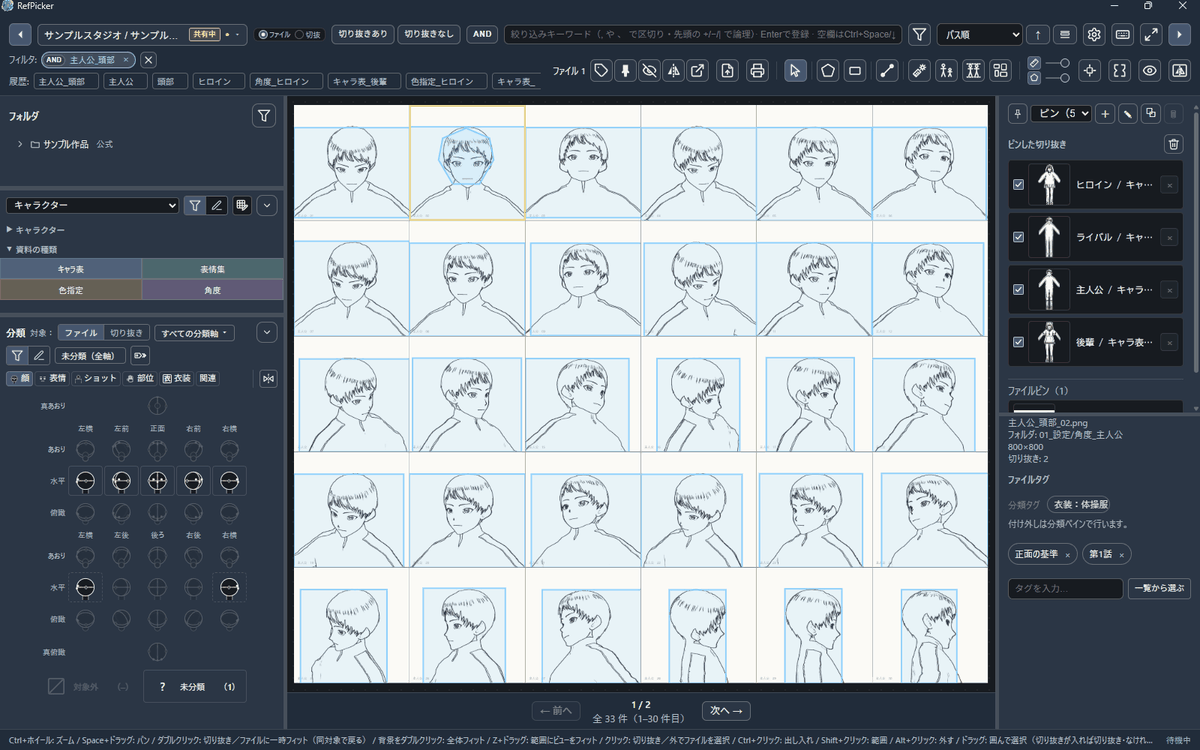
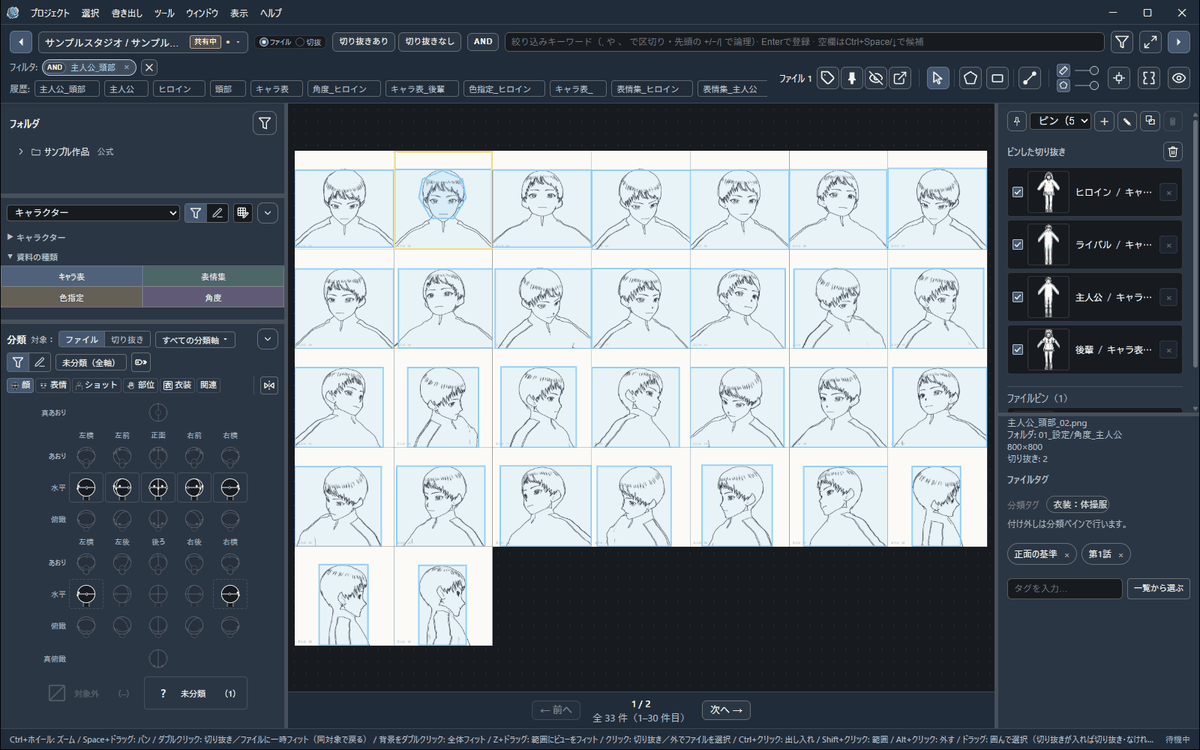
docs: 0.7.0 の公開文書と図（タイトルバーのメニュー・ファイルを書き出す）
record-for-ai の台帳 2026-11-28-v070 で直した out/crossrefpicker を反映した（ユーザー検収 OK）。ツールバーの手順をメニューとキーへ、USER_GUIDE に 5.2「ファイルを書き出す」、CHANGELOG に 0.7.0 の節、図は 0.7.0 のリリース版で撮り直し（新しく 200・210）。push は 0.7.0 の Release の公開と合わせる。

diff --git a/landing/index.html b/landing/index.html
@@ -410,7 +410,7 @@
         <ul>
           <li>整備した資料・切り抜き・タグを<b>「共有を始める…」で配布</b>（共有フォルダ / NAS / クラウド同期フォルダ）。<b>データだけ共有</b>（ファイルは元の場所のまま）か<b>ファイルも共有</b>かを選び、範囲を指定して<b>複数の共有先</b>へ同時に配れる</li>
           <li>反映する前に<b>「未反映の変更」で差分確認</b>。何が変わるかを把握してから配れる</li>
-          <li>受け取る人は<b>「更新」を押すだけ</b>で取り込み。公式データは共有元の最新に揃い、<b>手元で足したタグや個人ルートは残る</b>（同じ分類の軸に共有元が別の値を付けたときは、共有元の値になる）</li>
+          <li>受け取る人は<b>「更新」を押すだけ</b>で取り込み。公式データは共有元の最新に揃い、<b>手元で足したタグや個人ルートは残る</b>（同じ分類軸に共有元が別の分類を付けたときは、共有元の分類になる）</li>
           <li>公式データの形状・タグは受け取った側から変更不可。<b>資料の正が守られる</b></li>
         </ul>
       </div>
@@ -488,7 +488,7 @@
         </p>
         <div class="steps">
           <div class="step"><span class="n"></span><div class="t"><b>公式と個人をはっきり分離</b>配布される公式資料と、各自の参考資料・追加タグは別管理。更新しても個人のメモは消えません。共有が終わると、配られた画像の複製と公式のデータは受け取った人の手元から消えます。公式の切り抜きや画像に足したタグも一緒に消え、個人ルートとその上の作業は残ります。</div></div>
-          <div class="step"><span class="n"></span><div class="t"><b>公式は最新に、手元の追加は残す</b>新しいバージョンはバッジで知らせ、「更新」を押すと取り込みます。共有元のデータは最新に揃い、手元で足したタグや個人ルートは残ります（同じ分類の軸に共有元が別の値を付けたときは、共有元の値になります）。</div></div>
+          <div class="step"><span class="n"></span><div class="t"><b>公式は最新に、手元の追加は残す</b>新しいバージョンはバッジで知らせ、「更新」を押すと取り込みます。共有元のデータは最新に揃い、手元で足したタグや個人ルートは残ります（同じ分類軸に共有元が別の分類を付けたときは、共有元の分類になります）。</div></div>
           <div class="step"><span class="n"></span><div class="t"><b>複数のプロジェクトも見逃さない</b>開いていないプロジェクトの更新もバックグラウンドで検知し、更新バッジで知らせます。</div></div>
         </div>
       </div>
@@ -596,7 +596,7 @@
       </details>
       <details>
         <summary>配った資料を、受け取った人が壊してしまうことは？</summary>
-        <div class="a">できない設計です。公式資料の切り抜き形状や、印が「公式」のタグは、受け取った人の側から変更・削除できません。受け取った人ができるのは、タグを足す・自分の切り抜きを作る・個人ルートを追加する、といった手元での追加だけです。更新しても、手元で足したタグや個人ルートは残ります（同じ分類の軸に共有元が別の値を付けたときは、共有元の値になります）。共有が終わると、配られた画像の複製と公式のデータは手元から消え、公式の切り抜きや画像に足したタグも一緒に消えます。なお、社内で共同編集者として受け取った人は、公式のデータも編集できます。</div>
+        <div class="a">できない設計です。公式資料の切り抜き形状や、印が「公式」のタグは、受け取った人の側から変更・削除できません。受け取った人ができるのは、タグを足す・自分の切り抜きを作る・個人ルートを追加する、といった手元での追加だけです。更新しても、手元で足したタグや個人ルートは残ります（同じ分類軸に共有元が別の分類を付けたときは、共有元の分類になります）。共有が終わると、配られた画像の複製と公式のデータは手元から消え、公式の切り抜きや画像に足したタグも一緒に消えます。なお、社内で共同編集者として受け取った人は、公式のデータも編集できます。</div>
       </details>
       <details>
         <summary>導入にサーバーや管理者は必要ですか？</summary>
@@ -620,7 +620,7 @@
         <ul>
           <li>フォルダ登録による<b>索引化</b>と、<b>絞り込みは全部無料</b>——<b>自分の言葉で打ったタグでも、フォルダ名やファイル名でも引けます</b></li>
           <li><b>切り抜きは全ツール</b>（矩形・多角形・自動切り抜き）</li>
-          <li><b>自由タグ</b>（自分の言葉で打つタグ）の付与・削除。ファイルそのものに付ける<b>ファイルタグ</b>も。<b>ひとりで使うなら、ここまでで「探して・切って・並べる」が完結します</b>／クリップボードとフォルダへの書き出し／<b>印刷用書き出し</b>（用紙に並べて PDF／PNG に）</li>
+          <li><b>自由タグ</b>（自分の言葉で打つタグ）の付与・削除。ファイルそのものに付ける<b>ファイルタグ</b>も。<b>ひとりで使うなら、ここまでで「探して・切って・並べる」が完結します</b>／クリップボードとフォルダへの書き出し／<b>印刷用書き出し</b>（用紙に並べて PDF／PNG に）／<b>ファイルを書き出す</b>（元のフォルダ構成のまま）</li>
           <li><b>フィルタボード 1 枚</b>（よく使う絞り込み条件の文字列を並べて置けるテーブル）</li>
           <li><b>自分で作るプロジェクト 1 件</b>＋<b>受け取りは無制限</b>（配られたプロジェクトは 1 件に数えません）</li>
           <li><b>受け取った資料の上での分類タグの付与・削除</b>（共有元から届いたファイルに限ります）</li>

diff --git a/SYNC_GUIDE.md b/SYNC_GUIDE.md
@@ -5,7 +5,7 @@
 共有先は、**渡し方**（データだけ共有／ファイルも共有）と **範囲**（全ての範囲／フィルタで範囲を指定）の2つを選んで作ります（§0）。
 
 - 対象 OS: Windows
-- 共有の操作は、設定ウィンドウの **「プロジェクト」** タブ（「共有」の枠と、「受け取る」「別の PC へ移す」の段）から行います。**「選んで書き出す…」** だけは、メイン画面のツールバーのアイコンのボタンです（§6.1）。
+- 共有の操作は、設定ウィンドウの **「プロジェクト」** タブ（「共有」の枠と、「受け取る」「別の PC へ移す」の段）から行います。**「選んで書き出す…」** だけは、メイン画面の **書き出し** メニューにあります（§6.1）。
 - 関連: [ユーザーガイド](USER_GUIDE.md)（画面全体の操作）
 
 > **ライセンスについて**
@@ -190,7 +190,7 @@ flowchart TB
 
 ### 2.2 受け取る（受け取る人）
 
-1. メイン画面右上の歯車（**「設定を開く」**）→ 設定の「プロジェクト」タブ →「受け取る」の段の **「共有プロジェクトを読み込み…」** を押し、サーバー上の共有フォルダを選びます。
+1. メイン画面の **プロジェクト** メニューの **「共有プロジェクトを読み込み…」** を選ぶと、設定の「プロジェクト」タブが開きます。「受け取る」の段の **「共有プロジェクトを読み込み…」** を押し、サーバー上の共有フォルダを選びます。
 2. 受け取り範囲（使うフォルダ）を選びます（初めはすべてが選ばれています）。データだけ共有では「索引に入れるフォルダ」になります。左のフォルダツリーにも、選んだ範囲だけが出ます。あとから **「受け取り範囲を変更…」** で変えられます。範囲を狭めるときは、一覧から外れるファイルと切り抜きの数を出して確かめます。外れるフォルダに自分で作った切り抜きがあると、その数も出ます（自分の切り抜きは、範囲を戻しても戻りません）。
 3. 新しい受け取りプロジェクトが作られます。ルートは **手がかりの場所**（`\\server\…` の形のパス）で自動につながり、数件のファイルで「同じファイルか」を確かめます。
 
@@ -289,7 +289,7 @@ flowchart LR
 ### 3.3 受け取る（相手）
 
 1. Google ドライブの共有フォルダを **ドライブに追加** し、同期が終わるのを待ちます（エクスプローラーで `manifest.json` が見えればよい）。
-2. メイン画面右上の歯車（**「設定を開く」**）→ 設定の「プロジェクト」タブ →「受け取る」の段の **「共有プロジェクトを読み込み…」** を押し、**自分の PC 上の** そのフォルダ（`G:\…` などのパス。ブラウザの URL ではない）を選びます。
+2. メイン画面の **プロジェクト** メニューの **「共有プロジェクトを読み込み…」** を選ぶと、設定の「プロジェクト」タブが開きます。「受け取る」の段の **「共有プロジェクトを読み込み…」** を押し、**自分の PC 上の** そのフォルダ（`G:\…` などのパス。ブラウザの URL ではない）を選びます。
    パスの文字列は配る側と違って構いません。
 3. 「全ての範囲」の共有先なら、受け取り範囲を選び、**「作成して取り込む」** を押します。初めはすべてが選ばれています。ファイルも共有では「複製するフォルダ」になり、選ばなかったフォルダのファイルは手元にコピーされません。全部受け取るなら **「すべて選択」**。
    「フィルタで範囲を指定」の共有先なら、受け取り範囲は聞かれません（範囲は配る側が決めているため、すべて受け取ります）。
@@ -475,11 +475,11 @@ flowchart LR
 
 ## 6. 選んで書き出す・重ねて取り込む（USB・メールで手渡し）
 
-その場で選んだものを、一回きりで手渡すパターンです。共有先としては覚えず、ZIP を1つ作ります（ファイルも入れる）。同じ相手に続けて更新を届けたいときは、§3 のファイルも共有を使います。
+その場で選んだものを、一回きりで手渡すパターンです。共有先としては覚えず、ZIP を1つ作ります（ファイルも入れる）。同じ相手に続けて更新を届けたいときは、§3 のファイルも共有を使います。RefPicker を持たない人へファイルそのものを渡すときは、**「ファイルを書き出す…」**（[ユーザーガイド 5.2](USER_GUIDE.md#52-ファイルを書き出す)）を使います。
 
 ```mermaid
 flowchart TB
-    F["配る側：絞り込む<br/>例 #03 （タグの 03 だけ）"] --> E["選んで書き出す…<br/>（メイン画面のツールバーのアイコン）"]
+    F["配る側：絞り込む<br/>例 #03 （タグの 03 だけ）"] --> E["選んで書き出す…<br/>（メイン画面の書き出しメニュー）"]
     E --> Z1["第3話分.zip"]
     E --> Z2["第4話分.zip（後日）"]
     Z1 -- "USB・メール" --> I["受け取る側：書き出されたものを取り込む…"]
@@ -491,15 +491,12 @@ flowchart TB
 
 1. メイン画面で、渡したいファイルを絞り込みます（またはファイル表示で選びます）。
    **`#03` のように `#` を付けた語句はタグにだけ一致し**、パスには一致しません。話数タグで的確に選べます（`-#03` で「03 のタグが無いもの」）。
-2. メイン画面の上のツールバーの **「選んで書き出す…」** を押します（読み込みが終わっていないルートがあるあいだは、「書き出せません」と出て書き出せません）。文字の無いアイコンだけのボタンで、マウスを載せると名前が出ます。
-   選択まわりのボタン（ピン・削除）のすぐ右、印刷用に書き出すボタン（プリンターの絵）のすぐ左にあります。
-
-   <img src="screenshots/selective-export-icon.svg" width="32" alt="選んで書き出すのアイコン（書類に上向きの矢印）">　← この絵のボタン
-
-   ![メイン画面の上のツールバー。赤い枠が「選んで書き出す…」のボタン](screenshots/selective-export-toolbar.png)
-
+2. メイン画面の **書き出し** メニューの **「選んで書き出す…」** を選びます（読み込みが終わっていないルートがあるあいだは、「書き出せません」と出て書き出せません）。
    選択があれば選択したファイル、無ければ絞り込みの結果が対象です。件数を確かめて保存先を選びます。
-   受け取ったプロジェクトを開いているときと、一覧が0件のときは押せません。
+   受け取ったプロジェクトを開いているときと、一覧が0件のときは押せません。押せないときは項目が薄くなり、マウスを乗せると理由が出ます。
+
+   ![メイン画面のタイトルバーの「書き出し」メニューを開いたところ。一番上が「選んで書き出す…」](screenshots/200_titlebar_menu.png)
+
 3. そのファイルと、その上の切り抜き・タグ・ファイルタグ・メジャー（割り当てと親）だけが ZIP に入ります。
 
 ### 6.2 取り込む（受け取る側）
@@ -560,6 +557,7 @@ flowchart TD
 
 - 「終わった」と判断するのは、共有フォルダに終わった印（`share-ended.json`）があるときと、同じ場所が別の共有に置き換わったときだけです。**共有フォルダが見つからない・読めないだけでは何も消えません**（§7.4）。
 - データだけ共有の共有先から受け取っていても、**サーバーのファイルには触れません**。消すのは受け取った人の PC のデータ置き場の中の物だけです。
+- **「ファイルを書き出す…」**（[ユーザーガイド 5.2](USER_GUIDE.md#52-ファイルを書き出す)）で書き出した先も、共有を終えても消えません。
 
 ### 7.3 中身を作り直したい・壊れたとき（共有し直す）
 
@@ -691,7 +689,7 @@ flowchart TB
 | **「共有元がこの共有を終了しました」** と出る | 共有元が共有を終えました。配られたファイルの複製と公式のデータは、受け取った人と共同編集者の手元から消えています。自分で追加した個人ルートの分は残ります（§7.2）。不要ならプロジェクトを削除してください。同じ場所で共有し直されたら、もう一度 **「共有プロジェクトを読み込み…」** で受け取ります（共同編集者は **「共同編集者として受け取る…」**） |
 | **「共有元が共有を終了した可能性があります」** と出る | 共有フォルダに配布データも終了の印も見つからないとき（共有フォルダごと消された場合など）に出ます。共有元に確かめてください |
 | **「このフォルダの共有は共有元が終了しています」** と出る | 終わった共有のフォルダを読み込もうとしています。この共有フォルダからは受け取れません |
-| 別のプロジェクトを更新しても、今の一覧は変わりません | プロジェクト切替のメニューの「更新」で、開いていないプロジェクトを更新したときは、いま開いているプロジェクトは切り替わらず、一覧も変わりません。そのプロジェクトのバッジが消えれば取り込み済みです |
+| 別のプロジェクトを更新しても、今の一覧は変わりません | 画面の左上のプロジェクト切替の一覧の「更新」で、開いていないプロジェクトを更新したときは、いま開いているプロジェクトは切り替わらず、一覧も変わりません。そのプロジェクトのバッジが消えれば取り込み済みです |
 | トーストを「後で」にしたあと、また出したい | 「後で」はその起動中は出ません。RefPicker を起動し直すと、まだ取り込んでいない更新があればもう一度出ます。設定「プロジェクト」タブの **「更新（新しいバージョンを取り込む）」** からも取り込めます |
 | データだけ共有でファイルが出ない | 設定 → ルートが **「リンク切れ」** なら「再リンク…」。この PC からサーバーが見えるか |
 | ファイルも共有で片方の PC にだけファイルが無い | §3.5 |
@@ -715,7 +713,7 @@ flowchart TB
 | 共有フォルダに更新を反映 ／ 公開分を共有フォルダに反映 ／ 更新（新しいバージョンを取り込む） | 設定 → プロジェクト |
 | 受け取り範囲を変更… | 設定 → プロジェクト（受け取りプロジェクト） |
 | 公式ルートの登録（ルートを追加） ／ 再リンク… ／ 再スキャン | 設定 → ルート |
-| 選んで書き出す… | メイン画面のツールバーのアイコンだけのボタン（マウスを載せると名前が出ます・§6.1） |
+| 選んで書き出す… | メイン画面の書き出しメニュー（§6.1） |
 | 更新のトースト（更新・後で）／ 新しいバージョンの知らせ | メイン画面の上 |
 | プロジェクト切替・更新バッジ | メイン画面の左上 |
 

diff --git a/README.md b/README.md
@@ -30,6 +30,7 @@ RefPicker は、登録したフォルダを**丸ごと索引化**します。あ
 | **切り抜き** | 多角形・矩形で必要な部分を切り出し |
 | **クリップボード／フォルダ書き出し** | 切り抜き PNG を他アプリへ貼り付け、または任意フォルダへ書き出し |
 | **印刷用書き出し** | 絞り込んだ画像・切り抜きを用紙（A3／A4／B4／B5）に並べて、印刷用の PDF／PNG に書き出し |
+| **ファイルを書き出す** | 絞り込んだ結果か選んだものを、ファイルは元のまま、切り抜きは PNG で、元のフォルダ構成のまま書き出し。受け取ったプロジェクトでも使える |
 | **ファイルタグ** | ファイルそのものに自由タグを付ける。そのファイルの切り抜きに引き継がれ、絞り込みに効く |
 | **自由タグのグループ** | 自由タグをグループに分けて置く。設定の「タグの管理」で、自由タグの名前の変更・まとめる・削除もできる |
 | **切り抜きの正規化** | 基準（メジャー）に合わせて切り抜きの実寸を揃える |
@@ -74,7 +75,7 @@ RefPicker は、登録したフォルダを**丸ごと索引化**します。あ
 
 | ティア | 解除される機能 |
 |--------|----------------|
-| **個人ライセンス** | **分類タグを付ける／外す**（顔の向き・ショット・部位・表情と、プロジェクトで作ったカスタム分類軸を、決まった値から選ぶタグ）／**フィルタボードの2枚目以降と、ボードの中の2つ目からのテーブル**／メジャー正規化の書き出し／対比表 PNG の書き出し／**自分で作るプロジェクトの2件目以降** |
+| **個人ライセンス** | **分類タグを付ける／外す**（顔の向き・ショット・部位・表情と、プロジェクトで作ったカスタム分類軸を、決まった分類から選ぶタグ）／**フィルタボードの2枚目以降と、ボードの中の2つ目からのテーブル**／メジャー正規化の書き出し／対比表 PNG の書き出し／**自分で作るプロジェクトの2件目以降** |
 | **スタジオ用ライセンス** | 上記すべて＋**プロジェクトを共有する機能**（共有先の追加を含む）／**選んで書き出す**／**共同編集** |
 
 **いま個人ライセンスを解錠する方法は購読（All-Access）のみです。**
@@ -90,7 +91,7 @@ RefPicker は、登録したフォルダを**丸ごと索引化**します。あ
   受け取った資料では、共有元から届いたファイルの上なら**分類タグ**も付け外しできます。
   ただし、**共同編集をする人は、全員にスタジオ用ライセンスが必要**です（共同編集者として受け取るのはスタジオ用の機能です）。
 - **絞り込みや文字列でのタグ付け（自由タグ）はライセンス認証不要で使えます。**
-  認証が要るのは**分類タグ**——顔の向き・表情などを**決まった値から選ぶ**タグ——を
+  認証が要るのは**分類タグ**——顔の向き・表情などを**決まった分類から選ぶ**タグ——を
   **付ける／外す**ときだけです（受け取った資料の上では要りません。分類タグが付いた資料を受け取れば、その分類タグでの絞り込み利用も可能）。
 - **作ったデータはライセンス失効後も消えません。** 受け取った資料も分類タグもボードもそのまま残り、
   それらでの絞り込みも使い続けられます。

diff --git a/CHANGELOG.md b/CHANGELOG.md
@@ -4,6 +4,26 @@
 
 ---
 
+## [0.7.0] - 2026-11-28
+
+### 追加
+
+- **ファイルを書き出せるようにしました（「ファイルを書き出す…」）。** 絞り込んだ結果か選んだものを、元のフォルダ構成のまま好きな場所へコピーします。書き出し先は、選んだ場所の中に作る「RefPicker_<日付>」です。切抜表示では、切り抜きの PNG が元のファイルと同じフォルダに入ります。RefPicker を持たない人にも、整理した結果を渡せます（[ユーザーガイド 5.2](USER_GUIDE.md#52-ファイルを書き出す)）。
+- **タイトルバーにメニューを置きました。** メニューはプロジェクト・選択・書き出し・ツール・ウィンドウ・表示・ヘルプの7つで、メインウィンドウの操作はすべてメニューから選べます。`F10` で開き、矢印キーで動けます。押せない項目にマウスを乗せると、理由が出ます。
+- **書き出しが終わったときの知らせに「フォルダを開く」を付けました。** ファイルを書き出す・印刷用に書き出しで使えます。
+
+### 変更
+
+- **ツールバーのボタンの一部を外し、メニューへ移しました。** 設定・ヘルプ・並び順・グループ表示・左右反転・選んで書き出す・印刷用に書き出し・メジャー管理・対比表・正規化・自動切り抜き・ビュー全体の左右反転です。キーは今までどおり使えます。
+- **印刷用に書き出しは、終わるとダイアログを閉じて、知らせだけを出すようにしました。**
+- **0.6.0 の画面に残っていた古い言葉を直しました。** 分類の「値」・タグの管理の「画像」・「共有用に設定…」です。
+
+### 修正
+
+- 切り抜きの「フォルダへ書き出し」で、同じ名前のファイルを上書きしていたのを直しました。今は「name (2).png」のように名前を変えて書き出します。
+
+---
+
 ## [0.6.0] - 2026-11-23
 
 > 共有の機能を使うときは、配る側も受け取る人も 0.6.0 に更新してください。0.5.0 のままだと、範囲が効かない・更新が止まるなどのことが起きます（[共有ガイド 9](SYNC_GUIDE.md#9-refpicker-を新しいバージョンにするとき)）。

diff --git a/QUICKSTART.md b/QUICKSTART.md
@@ -44,7 +44,7 @@ flowchart LR
 
 ## 2. 資料フォルダを登録する
 
-1. 画面右上の **「設定を開く」**（歯車アイコン）を押す
+1. **プロジェクト** メニューの **「設定…」**（`Alt+,`）を選ぶ
 2. **ルートフォルダ** に、参照したい設定資料のフォルダを追加。フォルダを選ぶと「ルートから外すフォルダ」の画面が出ます。外すサブフォルダが無ければ、そのまま **「追加」** を押します（[ユーザーガイド 1.4](USER_GUIDE.md#14-ルートの一部のフォルダを外すルートから外すフォルダ)）
 3. RefPicker が配下を自動でスキャンし、索引を作ります（設定資料のフォルダは移動もコピーもしません）。PNG・JPEG などの画像のほか、PSD・CLIP STUDIO（.clip）・動画・3D のファイルも並びます。
 
